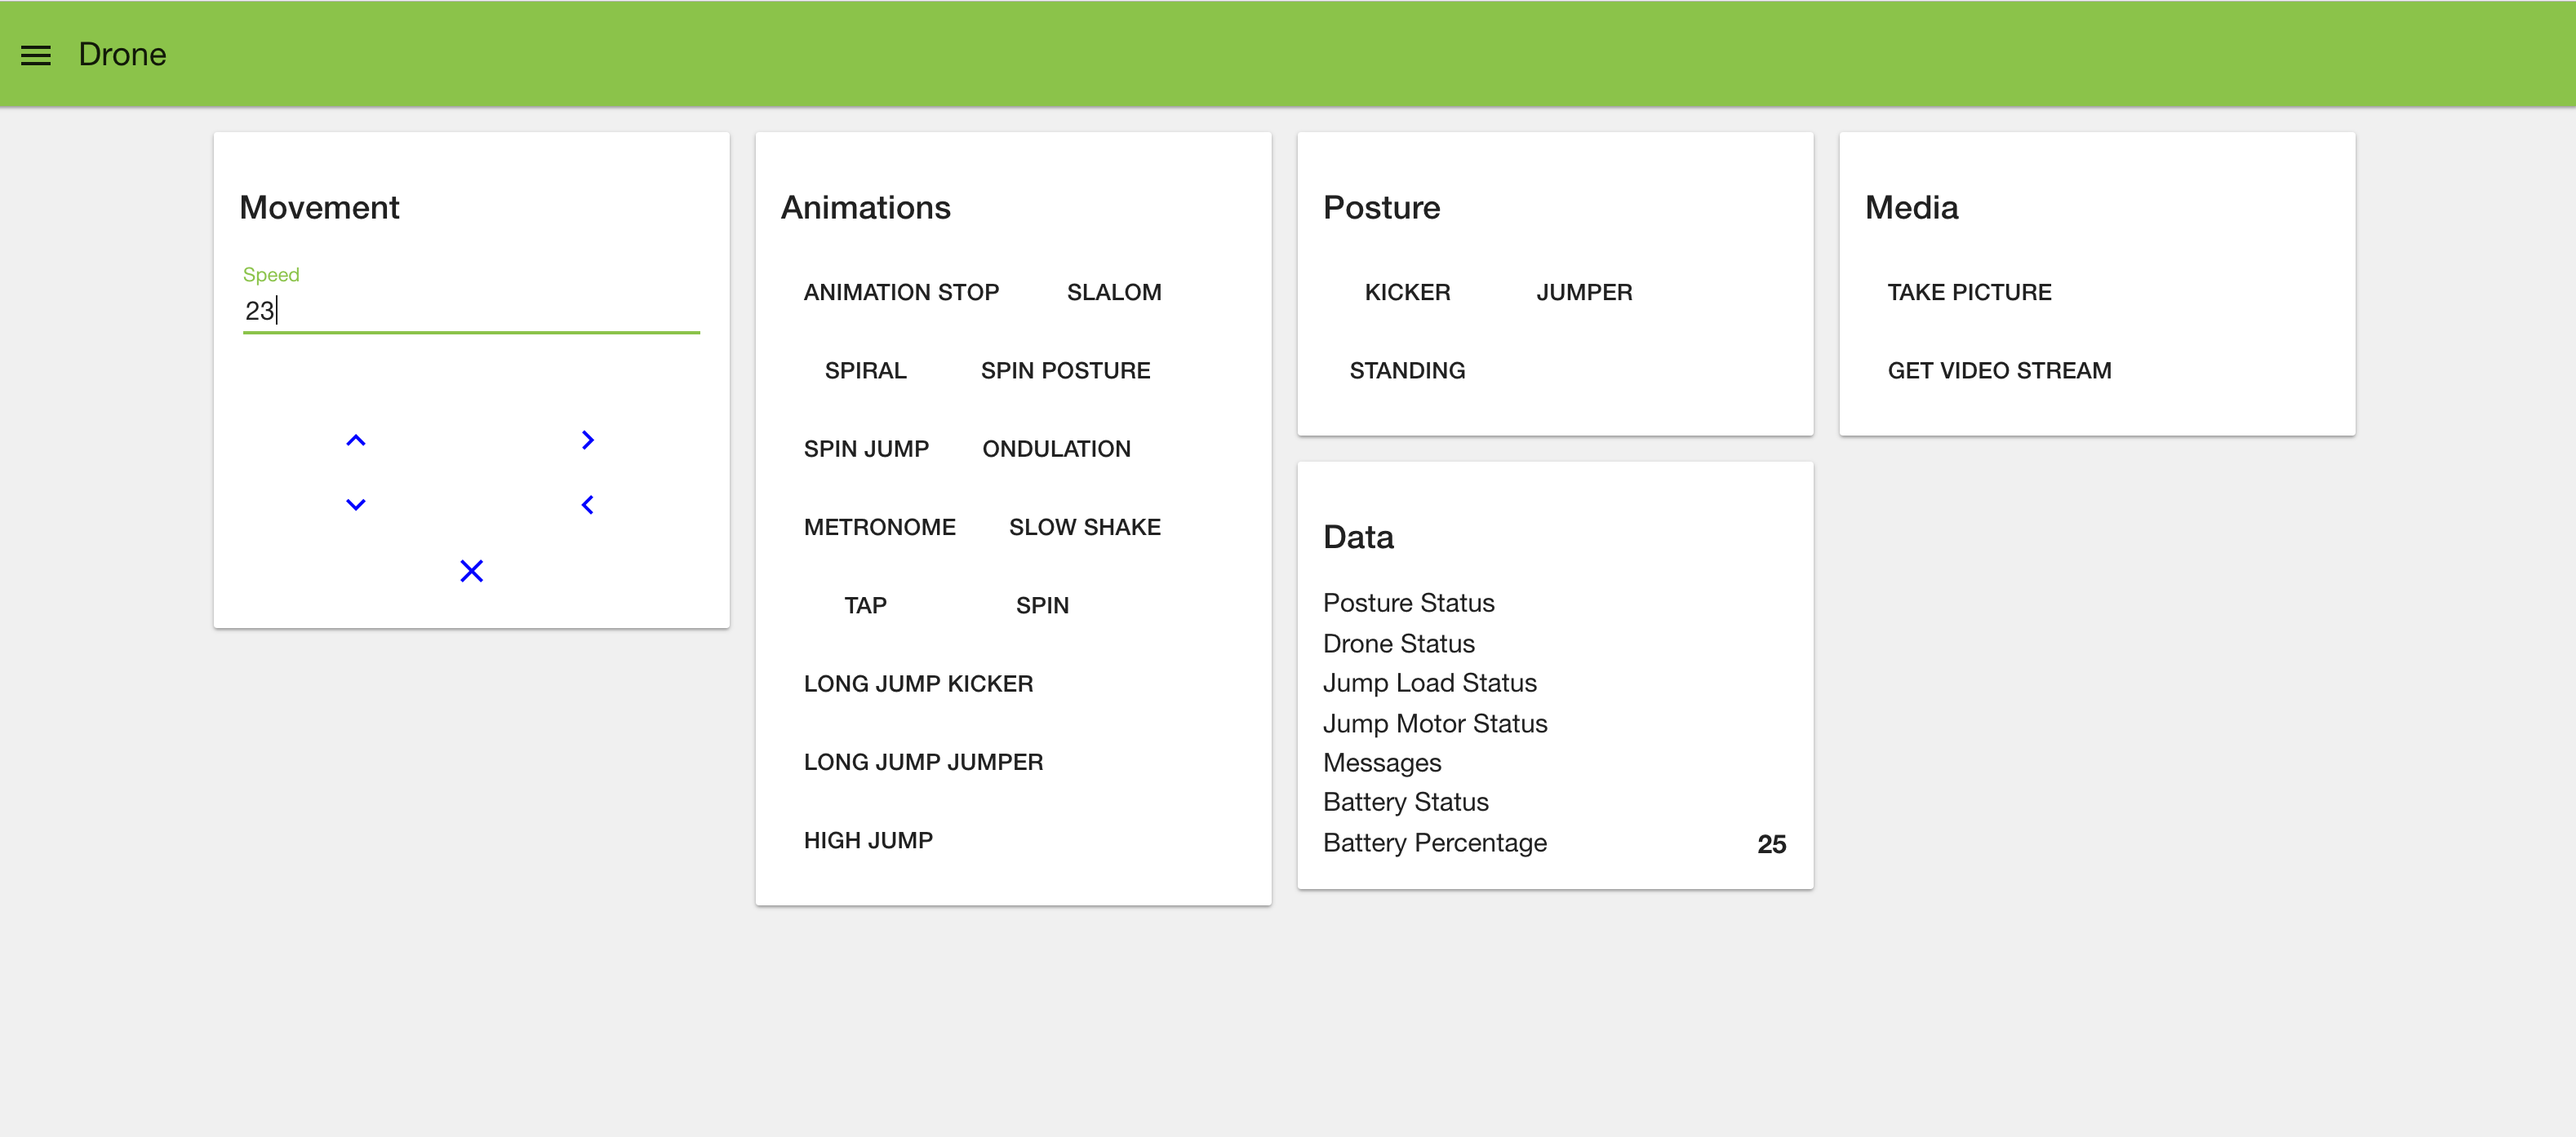
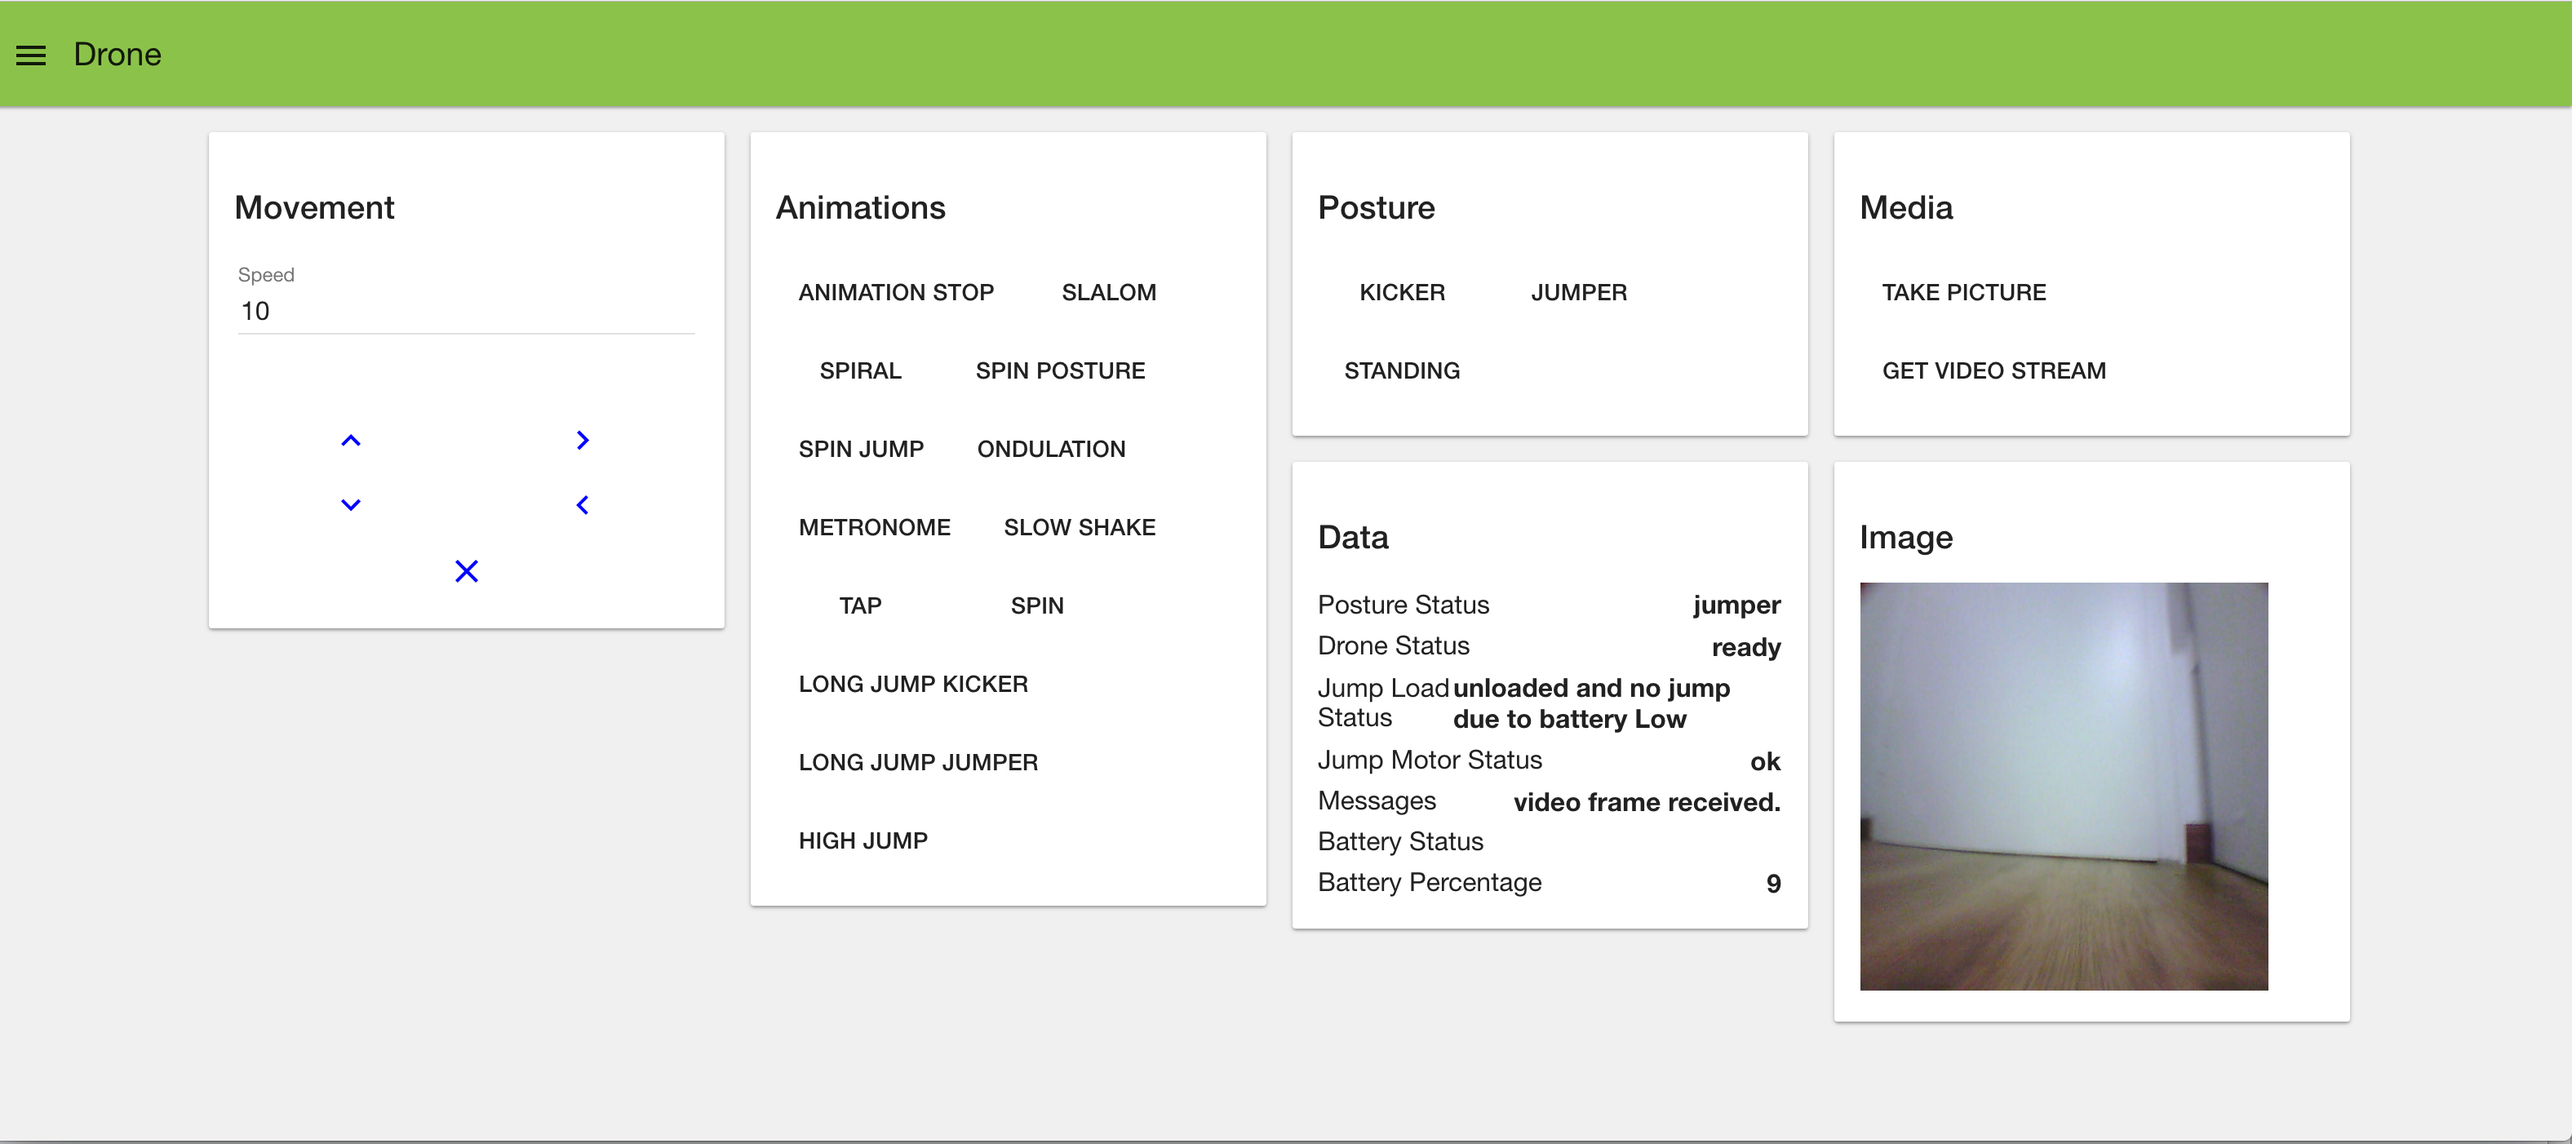
fix bug in video stream

diff --git a/nodes/drone-clients/JumpingDroneClient.js b/nodes/drone-clients/JumpingDroneClient.js
@@ -16,6 +16,7 @@ function JumpingDroneClient(settings) {
 
     var jumpingDroneReady = false;
     var connectionInProgress = false;
+    var videoStream = jumpingDrone.getVideoStream();
 
 
     this.connect = function (callback) {
@@ -30,7 +31,8 @@ function JumpingDroneClient(settings) {
                 jumpingDrone.on("ready", function () {
                     jumpingDroneReady = true;
                     connectionInProgress = false;
-
+                    jumpingDrone.forward(10);
+                    jumpingDrone.videoStreaming();
                     if (typeof callback === "function") {
                         callback();
                     }
@@ -210,9 +212,12 @@ function JumpingDroneClient(settings) {
                     }
                     case 'get-video-stream':
                     {
-                        var video = jumpingDrone.getVideoStream();
-                        video.on("data", function (data) {
-                            node.send(data);
+                        videoStream.on("data", function (data) {
+                            var object = {};
+                            node.log("frame received");
+                            object.payload = {};
+                            object.payload.video = data;
+                            node.send(object);
                         });
                         break;
                     }
@@ -387,9 +392,11 @@ function JumpingDroneClient(settings) {
 
         jumpingDrone.on("video", function (videoFrame) {
             var object = {};
+            node.log("frame received");
             object.topic = "message";
             object.payload = {};
-            object.payload.message = "video frame is: " + videoFrame;
+            object.payload.message = "video frame received.";
+            object.payload.buf = videoFrame;
             node.send(object);
         });
     }

diff --git a/nodes/drone-control/drone-control.html b/nodes/drone-control/drone-control.html
@@ -66,7 +66,7 @@
 <li>'animation-long-jump-jumper' - Perform a long jump. The drone is in jumper posture before performing this animation.  </li>
 <li>'animation-high-jump' - Perform a high jump. The drone needs to be in the jumper posture to use this API. </li>
 <li>'take-picture' - Take picture and store it internally </li>
-<li>'get-video-stream' - Emits the MJPEG video stream. This will send the data representing the video as a stream of buffer data</li>
+<li>'get-video-stream' - Emits the MJPEG video stream. This will send the data representing the video as a stream of buffer data in <b>object.payload.video</b></li>
 </ul>
 
 

diff --git a/README.md b/README.md
@@ -45,7 +45,7 @@ All the commands and events are tested with real drone to verify that it works a
 - 'animation-long-jump-jumper' - Perform a long jump. The drone is in jumper posture before performing this animation.   
 - 'animation-high-jump' - Perform a high jump. The drone needs to be in the jumper posture to use this API.  
 - 'take-picture' - Take picture and store it internally  
-- 'get-video-stream' - Emits the MJPEG video stream. This will send the data representing the video as a stream of buffer data 
+- 'get-video-stream' - Emits the MJPEG video stream. This will send the data representing the video as a stream of buffer data in <b>object.payload.video</b>
 </ul>
 
 <h3>Drone Data and Events</h3>
